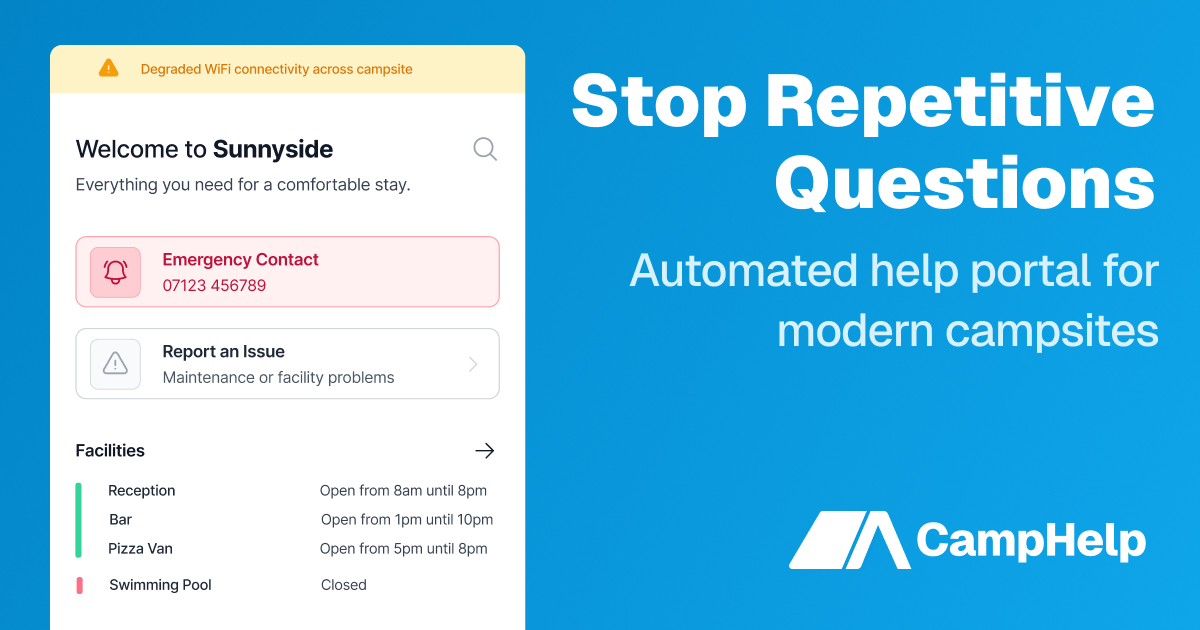
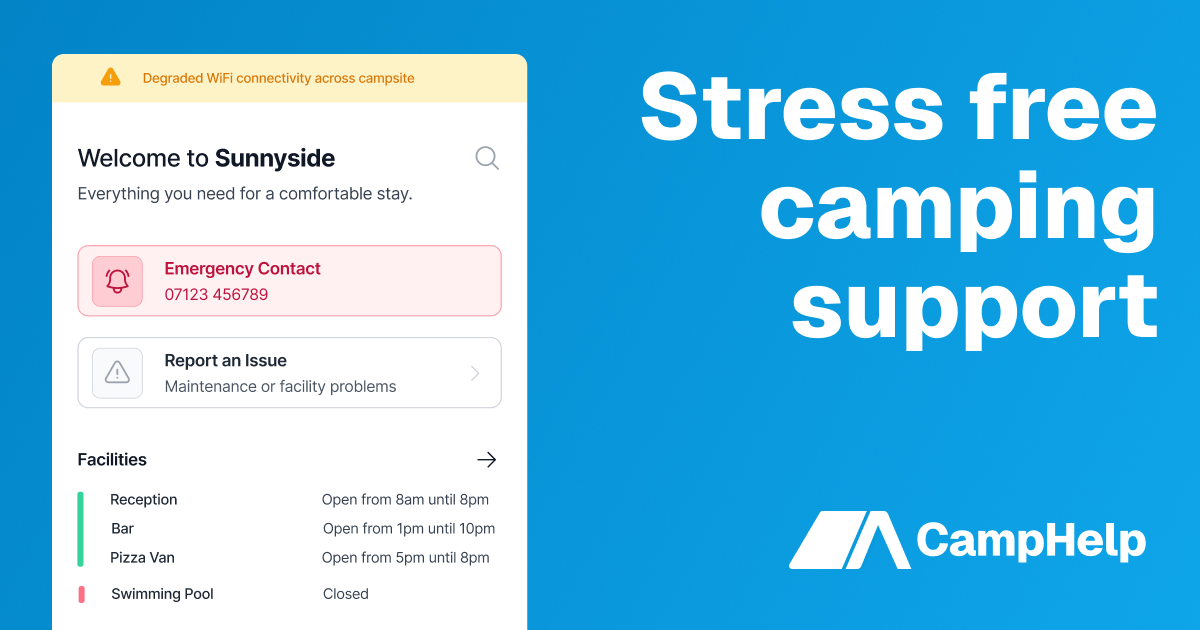
Updated meta and og-image for clarity.

diff --git a/index.html b/index.html
@@ -3,12 +3,10 @@
     <head>
         <meta charset="UTF-8" />
         <meta name="viewport" content="width=device-width, initial-scale=1.0" />
-        <title>
-            CampHelp - Help Portal for Campsites | Reduce Guest Inquiries
-        </title>
+        <title>CampHelp - Your campsite’s digital help desk</title>
         <meta
             name="description"
-            content="Create a comprehensive self-service help portal for your campsite. Reduce inquiries, improve guest satisfaction, and provide instant answers to campers."
+            content="CampHelp makes camping stress-free. A simple digital help desk for campsites that helps campers find info, report issues, and enjoy their stay."
         />
         <meta
             name="keywords"
@@ -18,11 +16,11 @@
         <!-- Open Graph -->
         <meta
             property="og:title"
-            content="CampHelp - Help Portal for Campsites"
+            content="CampHelp - Stress-free camping support"
         />
         <meta
             property="og:description"
-            content="Create a comprehensive self-service help portal for your campsite. Reduce inquiries, improve guest satisfaction, and provide instant answers to campers."
+            content="Everything campers need in one place – from facility info to issue reporting. CampHelp keeps your campsite running smoothly."
         />
         <meta
             property="og:image"
@@ -38,7 +36,7 @@
         />
         <meta
             name="twitter:description"
-            content="Create a comprehensive self-service help portal for your campsite. Reduce inquiries, improve guest satisfaction, and provide instant answers to campers."
+            content="Everything campers need in one place – from facility info to issue reporting. CampHelp keeps your campsite running smoothly."
         />
         <meta
             name="twitter:image"
@@ -530,7 +528,7 @@
                     </div>
                     <div class="flex items-center space-x-6">
                         <a
-                            href="#"
+                            href="https://bsky.app/profile/camphelp.io"
                             class="text-gray-500 hover:text-gray-700 transition-colors"
                         >
                             <svg
@@ -544,21 +542,7 @@
                             </svg>
                         </a>
                         <a
-                            href="#"
-                            class="text-gray-500 hover:text-gray-700 transition-colors"
-                        >
-                            <svg
-                                class="w-6 h-6"
-                                fill="currentColor"
-                                viewBox="0 0 24 24"
-                            >
-                                <path
-                                    d="M18.244 2.25h3.308l-7.227 8.26 8.502 11.24H16.17l-5.214-6.817L4.99 21.75H1.68l7.73-8.835L1.254 2.25H8.08l4.713 6.231zm-1.161 17.52h1.833L7.084 4.126H5.117z"
-                                />
-                            </svg>
-                        </a>
-                        <a
-                            href="#"
+                            href="https://www.facebook.com/camphelp.io"
                             class="text-gray-500 hover:text-gray-700 transition-colors"
                         >
                             <svg
@@ -577,8 +561,8 @@
                     class="border-t border-gray-200 pt-8 flex flex-col md:flex-row justify-between items-center"
                 >
                     <div class="text-gray-500 text-sm mb-4 md:mb-0">
-                        © <span id="currentYear">2025</span> CampHelp Limited.
-                        All rights reserved.
+                        © <span id="currentYear">2025</span> Drill Software
+                        Limited. All rights reserved.
                     </div>
                     <div class="flex items-center space-x-6 text-sm">
                         <a
